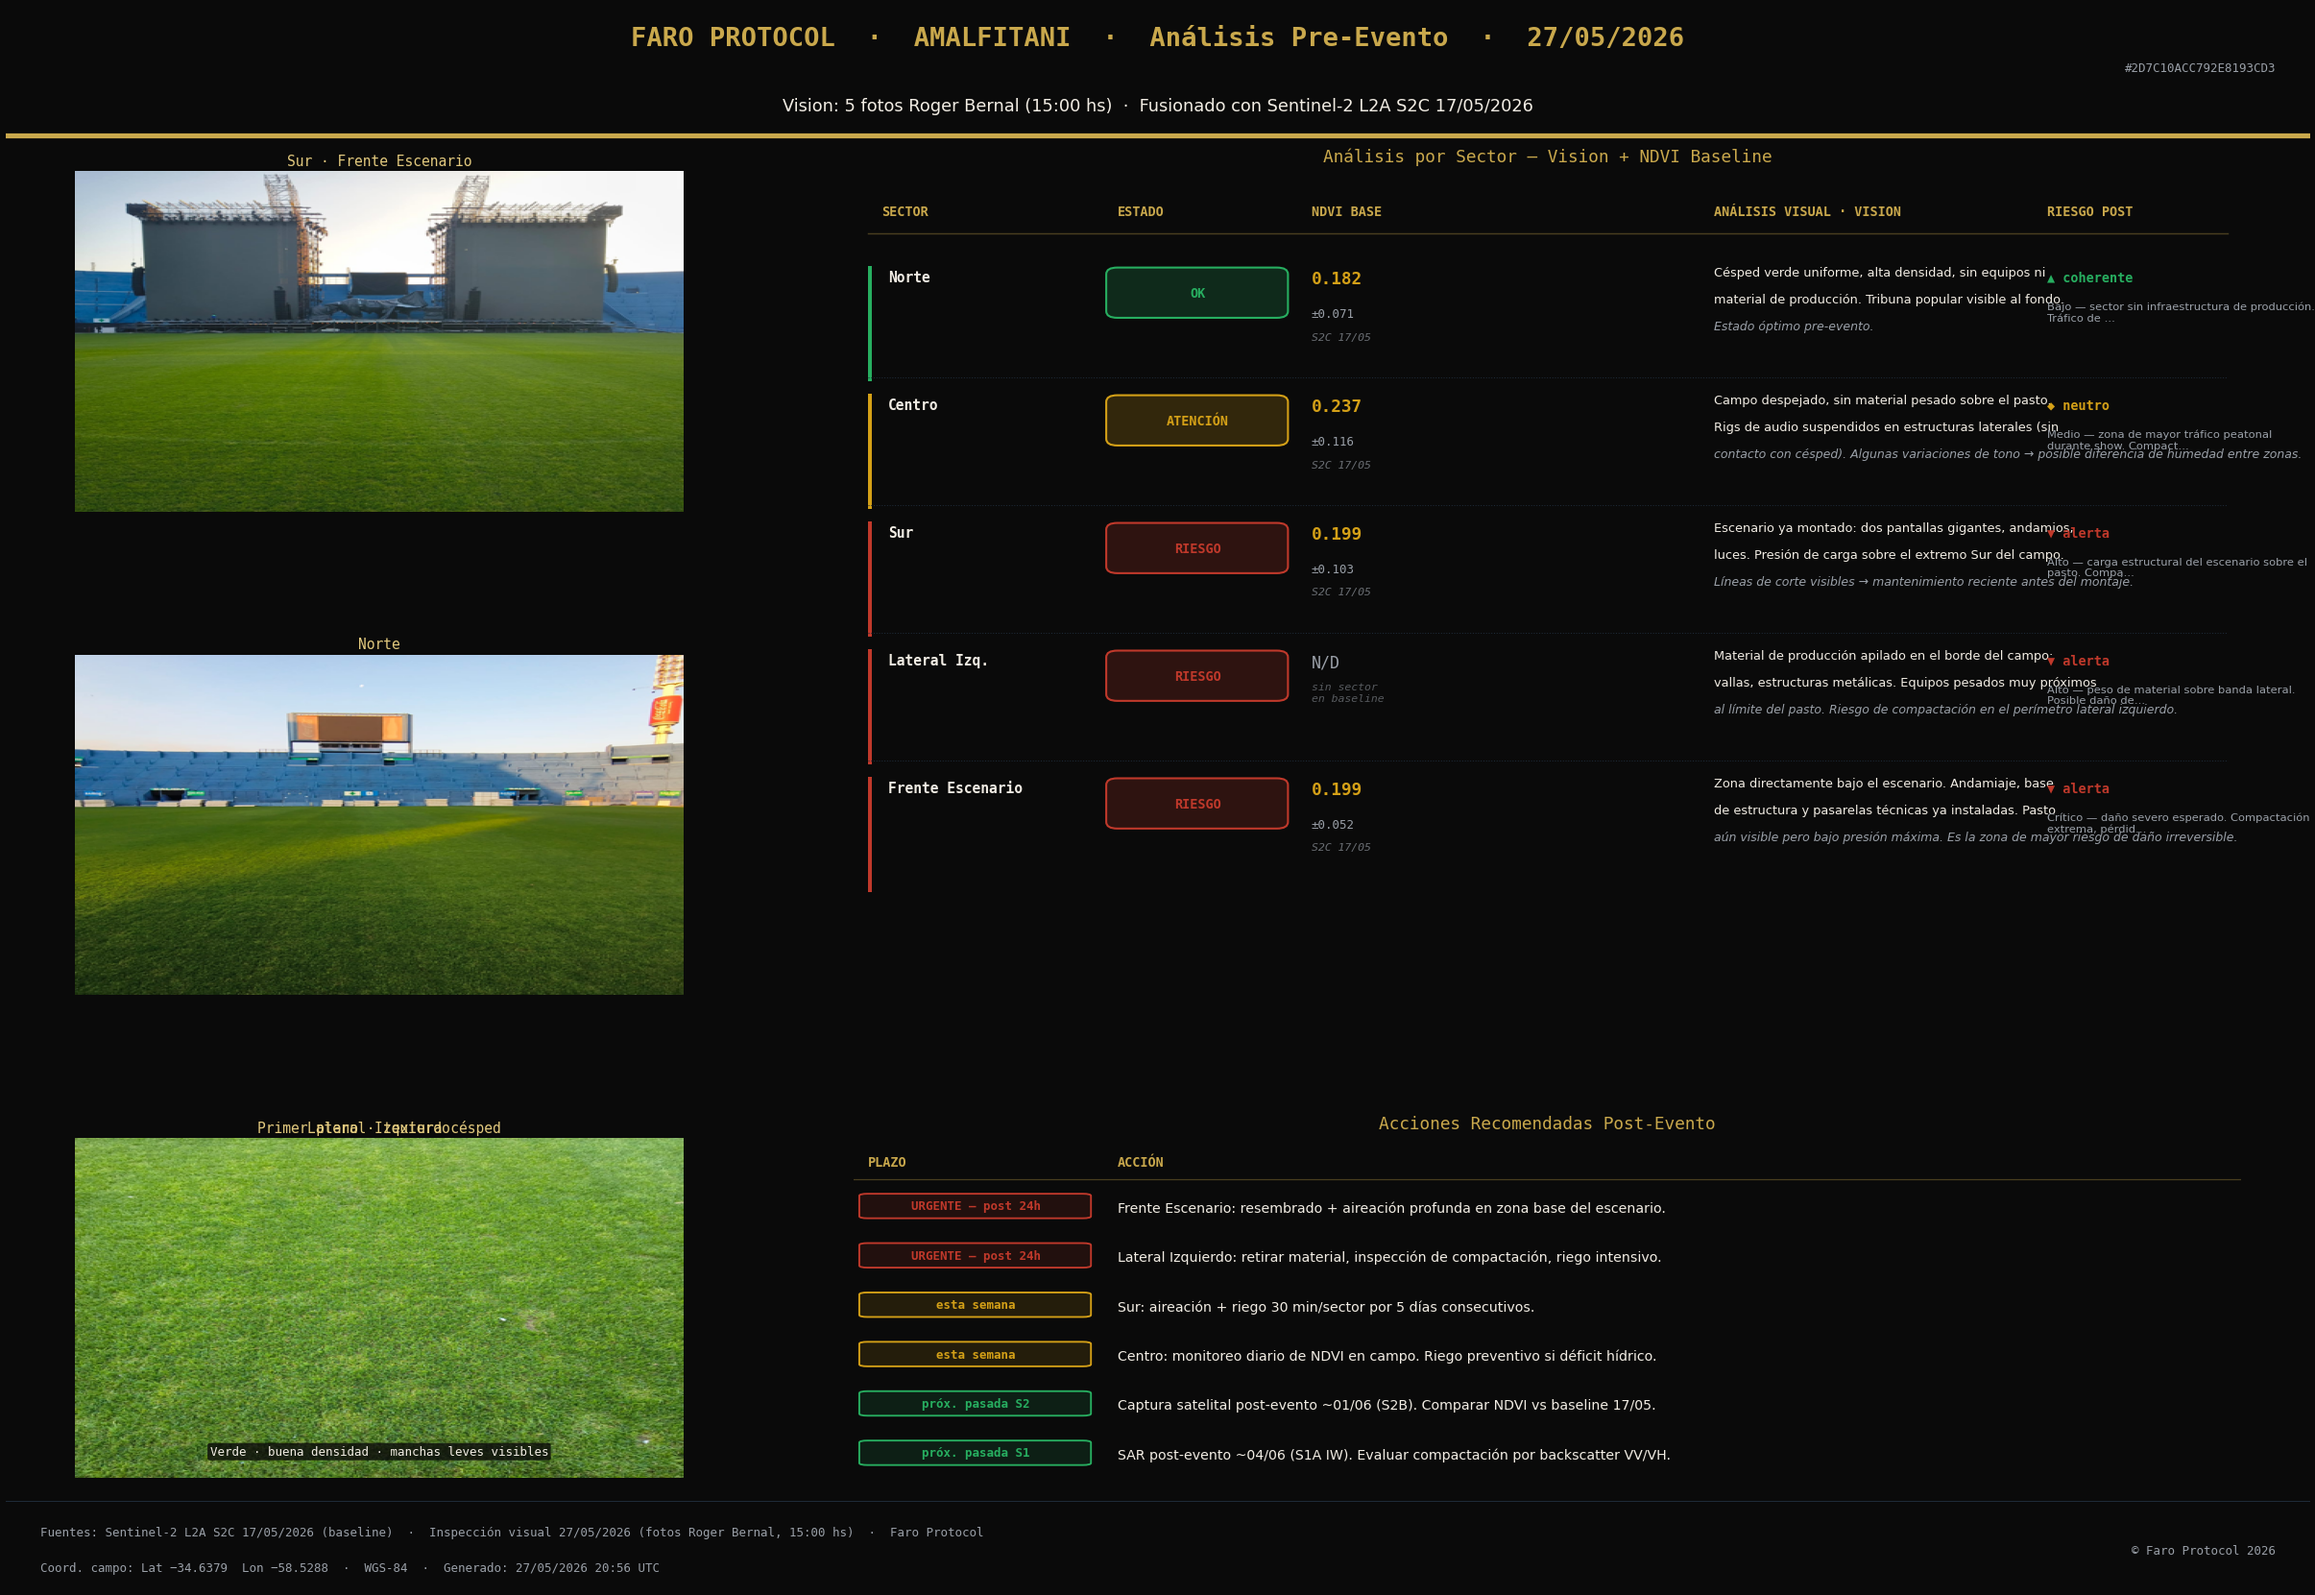
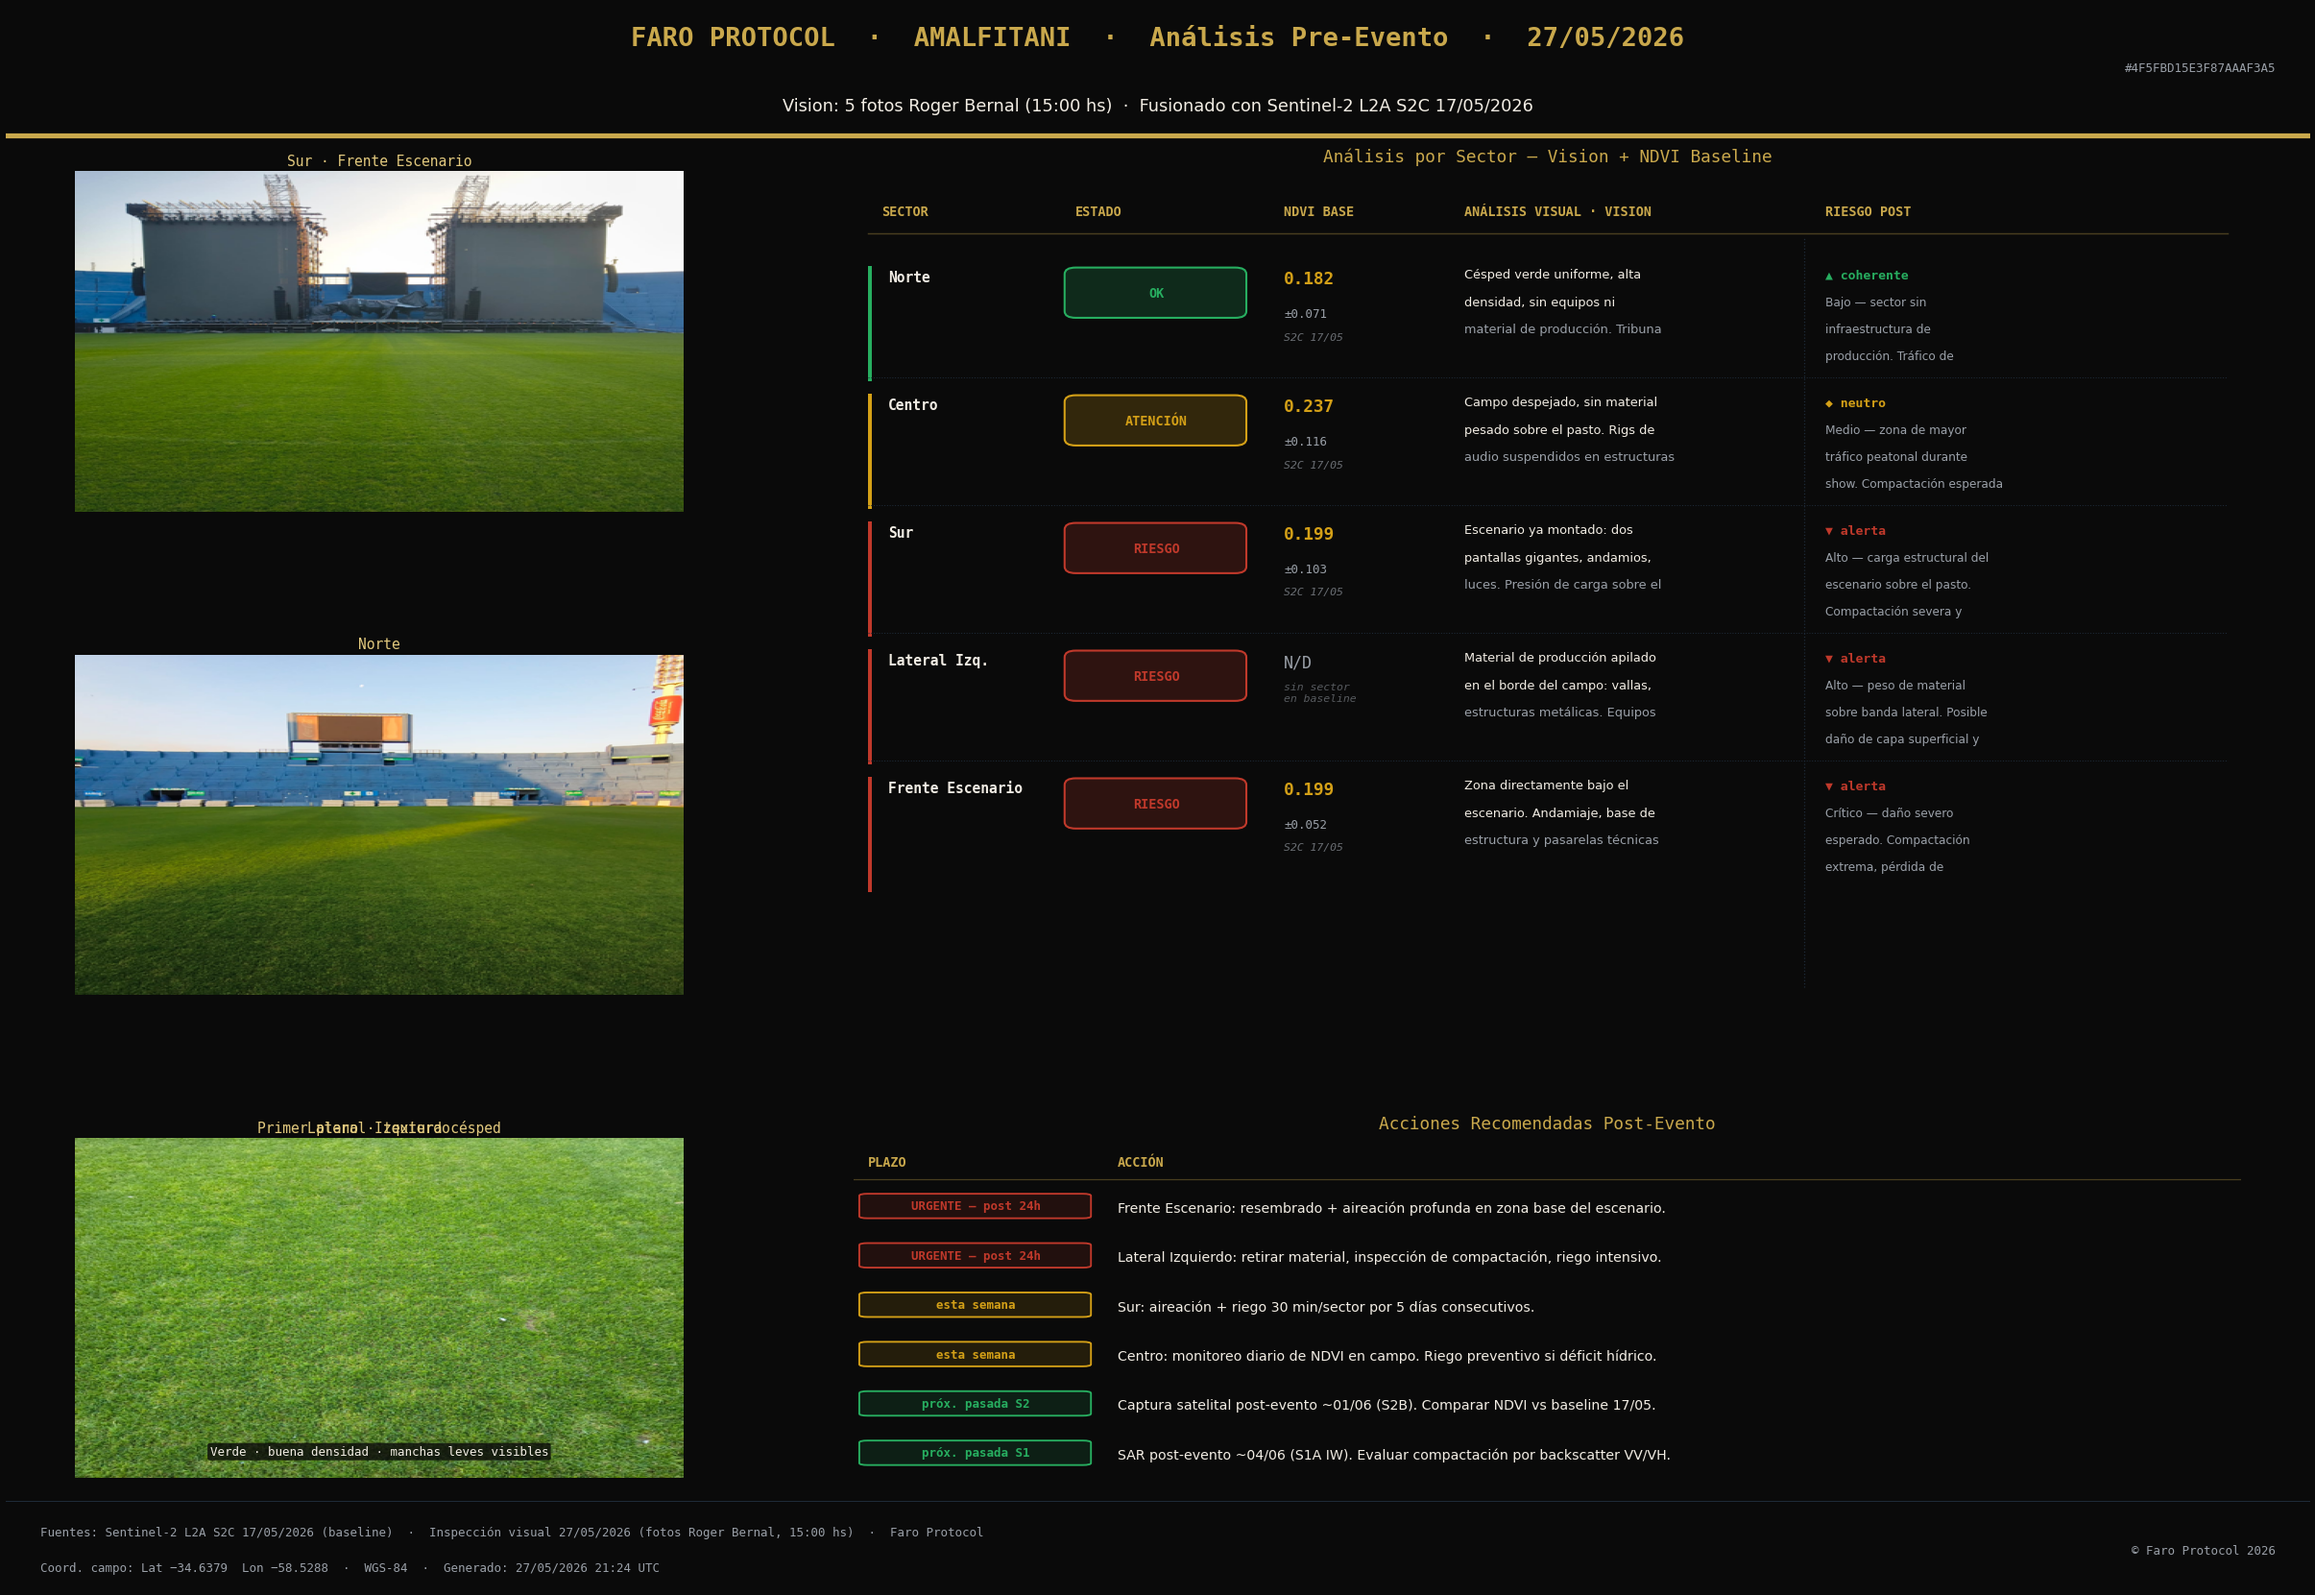
fix: columnas tabla sectorial sin overflow — wrap 32/28 chars, divisor vertical

diff --git a/gen_amalfitani_preevento.py b/gen_amalfitani_preevento.py
@@ -198,15 +198,36 @@ ax_sec.set_title("Análisis por Sector — Vision + NDVI Baseline",
 for sp in ax_sec.spines.values():
     sp.set_edgecolor(BORDER); sp.set_linewidth(0.8)
 
-# Encabezados columnas
-cols_x = [0.02, 0.19, 0.33, 0.62, 0.86]
+def _wrap(text, max_chars):
+    """Parte texto en líneas de max_chars caracteres respetando palabras."""
+    words = text.split()
+    lines, cur, n = [], [], 0
+    for w in words:
+        if n + len(w) + (1 if cur else 0) > max_chars and cur:
+            lines.append(" ".join(cur))
+            cur, n = [], 0
+        cur.append(w)
+        n += len(w) + (1 if len(cur) > 1 else 0)
+    if cur:
+        lines.append(" ".join(cur))
+    return lines
+
+# Anchos de columna calibrados para evitar overflow:
+#   SECTOR 0.02–0.15 | ESTADO 0.16–0.30 | NDVI 0.31–0.43
+#   ANÁLISIS VISUAL 0.44–0.68 | RIESGO POST 0.70–0.99
+cols_x   = [0.02, 0.16, 0.31, 0.44, 0.70]
 col_hdrs = ["SECTOR", "ESTADO", "NDVI BASE", "ANÁLISIS VISUAL · VISION", "RIESGO POST"]
 for x, h in zip(cols_x, col_hdrs):
     ax_sec.text(x, 0.96, h, color=GOLD, fontsize=6.5, fontfamily="monospace",
                 fontweight="bold", va="top")
 ax_sec.plot([0.01, 0.99], [0.925, 0.925], color=GOLD + "55", lw=0.7)
 
+# Línea divisoria vertical entre ANÁLISIS VISUAL y RIESGO POST
+ax_sec.plot([0.685, 0.685], [0.01, 0.92], color=BORDER, lw=0.6, linestyle=":")
+
 row_h = 0.155
+LINE_V = 0.033   # espaciado vertical entre líneas de texto
+
 for i, s in enumerate(SECTORES):
     y = 0.89 - i * row_h
     sc = s["sem"]
@@ -249,53 +270,22 @@ for i, s in enumerate(SECTORES):
                     color=WDIM + "88", fontsize=5.5, fontfamily="monospace", va="top",
                     style="italic")
 
-    # Análisis visual — wrap manual
-    vision_txt = s["vision"]
-    # Partir en dos líneas ~55 chars
-    words = vision_txt.split()
-    line1, line2, line3 = [], [], []
-    cur = line1
-    chars = 0
-    for w in words:
-        if chars > 52 and cur is line1:
-            cur = line2; chars = 0
-        elif chars > 52 and cur is line2:
-            cur = line3; chars = 0
-        cur.append(w)
-        chars += len(w) + 1
-    ax_sec.text(cols_x[3], y - 0.005, " ".join(line1),
-                color=WHITE, fontsize=6.2, va="top")
-    if line2:
-        ax_sec.text(cols_x[3], y - 0.038, " ".join(line2),
-                    color=WHITE, fontsize=6.2, va="top")
-    if line3:
-        ax_sec.text(cols_x[3], y - 0.070, " ".join(line3),
-                    color=WDIM, fontsize=6.0, va="top", style="italic")
+    # Análisis visual — wrap a 32 chars, cabe en columna 0.44–0.68
+    for li, ln in enumerate(_wrap(s["vision"], 32)[:3]):
+        clr = WHITE if li < 2 else WDIM
+        ax_sec.text(cols_x[3], y - 0.008 - li * LINE_V, ln,
+                    color=clr, fontsize=6.2, va="top")
 
-    # Match Vision/NDVI
+    # RIESGO POST — match symbol + texto wrapeado a 28 chars
     match_sym = {"positivo": "▲ coherente", "neutro": "◆ neutro", "negativo": "▼ alerta"}
     match_col = {"positivo": GREEN, "neutro": AMBER, "negativo": RED}
     vm = s.get("vision_match", "neutro")
-    ax_sec.text(cols_x[4], y - 0.01, match_sym[vm],
-                color=match_col[vm], fontsize=6.5, fontfamily="monospace",
+    ax_sec.text(cols_x[4], y - 0.008, match_sym[vm],
+                color=match_col[vm], fontsize=6.3, fontfamily="monospace",
                 fontweight="bold", va="top")
-
-    # Riesgo post abreviado
-    rp = s["riesgo_post"]
-    rp_words = rp.split()
-    rp1, rp2 = [], []
-    cc = 0
-    for w in rp_words:
-        if cc > 28 and not rp2:
-            rp1 = list(rp1)
-            cc = 0
-        (rp2 if rp1 else rp1).append(w)
-        cc += len(w) + 1
-    # simpler: just first 32 chars + ...
-    rp_short = rp[:60] + ("…" if len(rp) > 60 else "")
-    ax_sec.text(cols_x[4], y - 0.048, rp_short,
-                color=WDIM, fontsize=5.5, va="top",
-                wrap=True)
+    for li, ln in enumerate(_wrap(s["riesgo_post"], 28)[:3]):
+        ax_sec.text(cols_x[4], y - 0.008 - (li + 1) * LINE_V, ln,
+                    color=WDIM, fontsize=5.8, va="top")
 
     # Separador
     if i < len(SECTORES) - 1:
